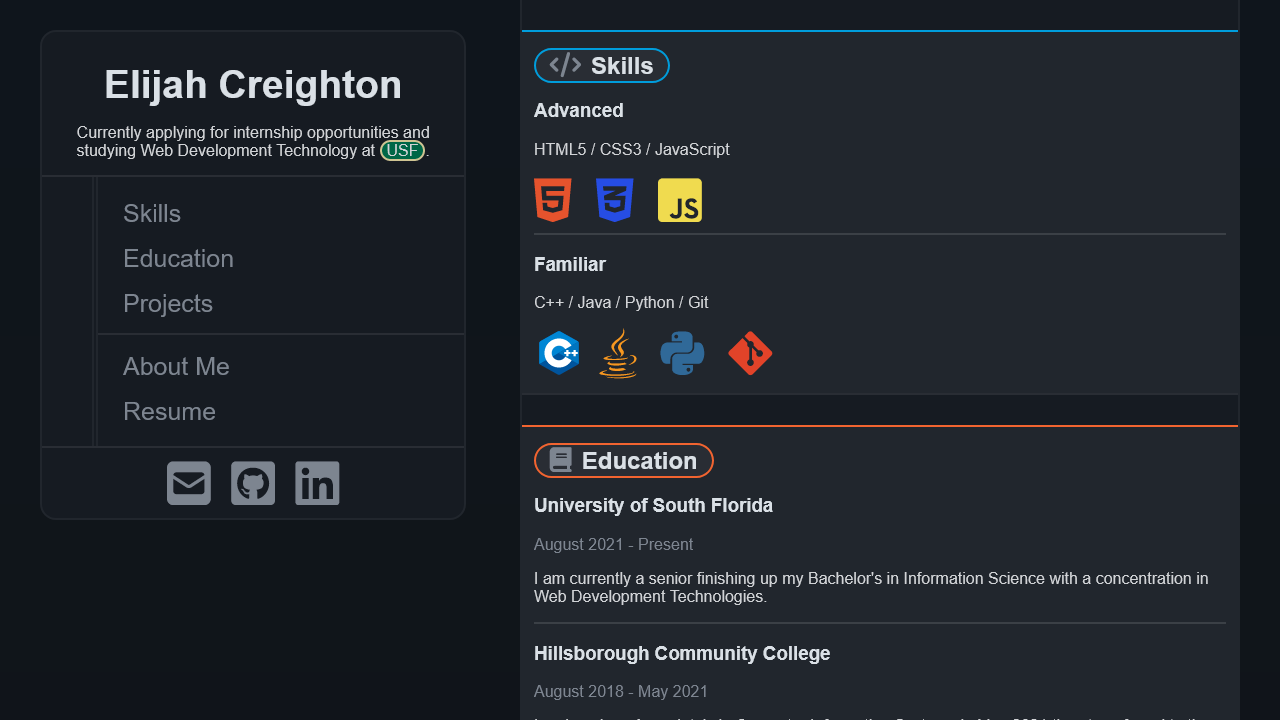
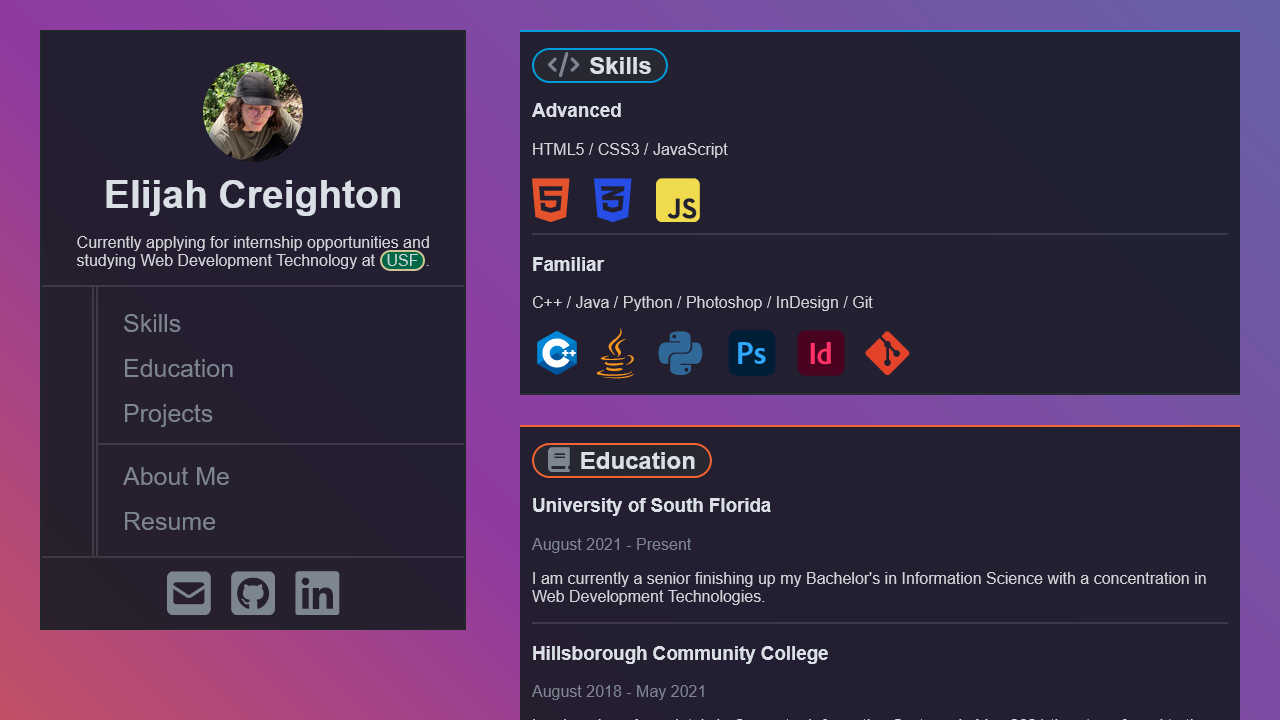
quick fix
- made some changes to the text to keep it up to date
- changed the image on the README.md file to reflect recent changes to the site

diff --git a/index.html b/index.html
@@ -17,8 +17,7 @@
                     <img class="avatar" src="images/avatar.jpg">
                     <h1>Elijah Creighton</h1>
                     <p>
-                        Currently applying for internship opportunities and studying Web Development Technology at 
-                        <span id="usf-h" class="highlight">USF</span>.
+                        A web developer and <span id="usf-h" class="highlight">USF</span> graduate with the desire to create responsive, memorable web experiences. 
                     </p>
                 </div>
                 <div class="midNav">
@@ -65,8 +64,8 @@
                 <section id="education">
                     <h1><span class="highlight" id="education-h"><i class="fa-solid fa-book" id="heading-i"></i>Education</span></h1>
                     <h3>University of South Florida</h3>
-                    <p><span class="date">August 2021 - Present</span></p>
-                    <p>I am currently a senior finishing up my Bachelor's in Information Science with a concentration in Web Development Technologies.</p>
+                    <p><span class="date">August 2021 - December 2023</span></p>
+                    <p>I graduated from the University of South Florida’s BSIS Web Development Program with a Bachelor's in Information Science concentrating on Web Development Technologies.</p>
                     <hr>
                     <h3>Hillsborough Community College</h3>
                     <p><span class="date">August 2018 - May 2021</span></p>

diff --git a/README.md b/README.md
@@ -1,5 +1,5 @@
 # Welcome to my online portfolio!
-![A screenshot of the portfolio site](images/screenshot.png)
+![A screenshot of the portfolio site on desktop](images/screenshot.png)
 
 Thank you for taking an interest in my site! Do keep in mind, this is a constant work in progress just as I am.
 There is a lot of work to do yet, I hope to completely redesign this site soon.
